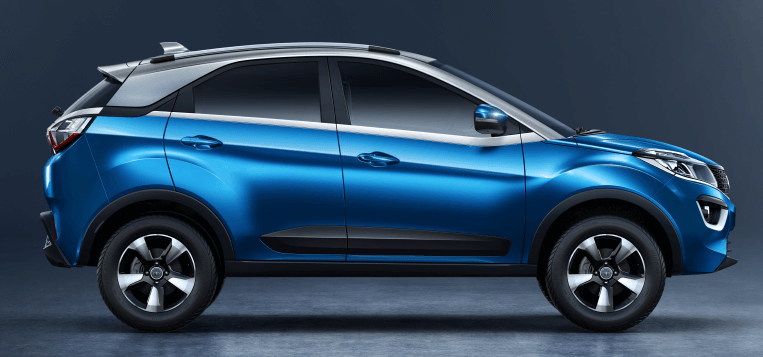
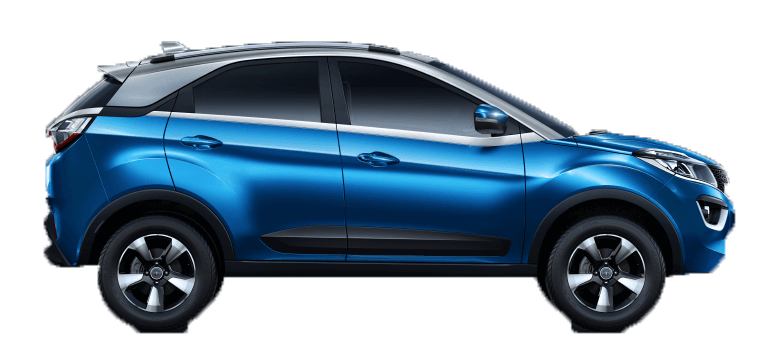
Modified images to transparent background

diff --git a/offroad.html b/offroad.html
@@ -36,12 +36,12 @@
       </div>
       <div id="dynamic">
         <link rel="stylesheet" href="style_suv.css">
-<div id="suv" style="cursor: pointer;"><img src="assets/img/cars/Offroad/cheverolet%20colorado%20zr.jpg" height="150px"/></div>
-<div id="sedan" onclick="alert('Fduck')" style="cursor: pointer;"><img src="assets/img/cars/Offroad/jeep%20wrangler.jpg" height="150px" width="260px" /></div>
-<div id="coupes" onclick="alert('Fucfk')" style="cursor: pointer;"><img src="assets/img/cars/Offroad/Mercedes-Benz%20G500.jpg" height="120px" /></div>
-<div id="offroad" onclick="alert('Fsuck')" style="cursor: pointer;"><img src="assets/img/cars/Offroad/Ram%20Power%20Wagon.jpg" height="150px" /></div>
-<div id="sports" onclick="alert('Fuck')" style="cursor: pointer;"><img src="assets/img/cars/Offroad/raptor.jpg" height="150px" /></div>
-<div id="bikes" onclick="alert('Fucck')" style="cursor: pointer;"><img src="assets/img/cars/Offroad/Toyota%204Runner%20TRD%20Pro.jpg" height="150px" /></div>
+<div id="suv" style="cursor: pointer;"><img src="assets/img/cars/Offroad/cheverolet%20colorado%20zr.png" height="150px"/></div>
+<div id="sedan" onclick="alert('Fduck')" style="cursor: pointer;"><img src="assets/img/cars/Offroad/jeep%20wrangler.png" height="150px" width="260px" /></div>
+<div id="coupes" onclick="alert('Fucfk')" style="cursor: pointer;"><img src="assets/img/cars/Offroad/Mercedes-Benz%20G500.png" height="120px" /></div>
+<div id="offroad" onclick="alert('Fsuck')" style="cursor: pointer;"><img src="assets/img/cars/Offroad/Ram%20Power%20Wagon.png" height="150px" /></div>
+<div id="sports" onclick="alert('Fuck')" style="cursor: pointer;"><img src="assets/img/cars/Offroad/raptor.png" height="150px" /></div>
+<div id="bikes" onclick="alert('Fucck')" style="cursor: pointer;"><img src="assets/img/cars/Offroad/Toyota%204Runner%20TRD%20Pro.png" height="150px" /></div>
     </div>
     </div>
 

diff --git a/bikes.html b/bikes.html
@@ -37,11 +37,11 @@
       <div id="dynamic">
         <link rel="stylesheet" href="style_suv.css">
 <div id="suv" style="cursor: pointer;"><img src="assets/img/cars/Bikes/avenger%20cruise.png" height="170px" /></div>
-<div id="sedan" onclick="alert('Fduck')" style="cursor: pointer;"><img src="assets/img/cars/Bikes/bikees.jpg" height="150px" width="260px" /></div>
+<div id="sedan" onclick="alert('Fduck')" style="cursor: pointer;"><img src="assets/img/cars/Bikes/bikees.png" height="150px" width="260px" /></div>
 <div id="coupes" onclick="alert('Fucfk')" style="cursor: pointer;"><img src="assets/img/cars/Bikes/calssic%20350.png" height="160px" /></div>
-<div id="offroad" onclick="alert('Fsuck')" style="cursor: pointer;"><img src="assets/img/cars/Bikes/Harley-Davidson-Street-750-Custom-By-Rajputana-Customs-Right-Side-Front-Three-Quarters.jpg" height="150px" /></div>
+<div id="offroad" onclick="alert('Fsuck')" style="cursor: pointer;"><img src="assets/img/cars/Bikes/Harley-Davidson-Street-750-Custom-By-Rajputana-Customs-Right-Side-Front-Three-Quarters.png" height="150px" /></div>
 <div id="sports" onclick="alert('Fuck')" style="cursor: pointer;"><img src="assets/img/cars/Bikes/ktm%20ninja.png" height="150px" /></div>
-<div id="bikes" onclick="alert('Fucck')" style="cursor: pointer;"><img src="assets/img/cars/Bikes/um-motorcycles-renegade-commando-black-shine.jpg" height="150px" /></div>
+<div id="bikes" onclick="alert('Fucck')" style="cursor: pointer;"><img src="assets/img/cars/Bikes/um-motorcycles-renegade-commando-black-shine.png" height="150px" /></div>
     </div>
     </div>
 

diff --git a/SUV.html b/SUV.html
@@ -36,11 +36,11 @@
       </div>
       <div id="dynamic">
         <link rel="stylesheet" href="style_suv.css">
-<div id="suv" style="cursor: pointer;"><img src="assets/img/cars/SUV/isuzu.jpg" height="150px" /></div>
+<div id="suv" style="cursor: pointer;"><img src="assets/img/cars/SUV/isuzu.png" height="150px" /></div>
 <div id="sedan" onclick="alert('Fduck')" style="cursor: pointer;"><img src="assets/img/cars/SUV/duster.png" height="150px" width="260px" /></div>
-<div id="coupes" onclick="alert('Fucfk')" style="cursor: pointer;"><img src="assets/img/cars/SUV/ecosport.jpg" height="120px" /></div>
-<div id="offroad" onclick="alert('Fsuck')" style="cursor: pointer;"><img src="assets/img/cars/SUV/endeavour.jpg" height="150px" /></div>
-<div id="sports" onclick="alert('Fuck')" style="cursor: pointer;"><img src="assets/img/cars/SUV/fortuner.jpg" height="150px" /></div>
+<div id="coupes" onclick="alert('Fucfk')" style="cursor: pointer;"><img src="assets/img/cars/SUV/ecosport.png" height="120px" /></div>
+<div id="offroad" onclick="alert('Fsuck')" style="cursor: pointer;"><img src="assets/img/cars/SUV/endeavour.png" height="150px" /></div>
+<div id="sports" onclick="alert('Fuck')" style="cursor: pointer;"><img src="assets/img/cars/SUV/fortuner.png" height="150px" /></div>
 <div id="bikes" onclick="alert('Fucck')" style="cursor: pointer;"><img src="assets/img/cars/SUV/nexon.png" height="150px" /></div>
     </div>
     </div>

diff --git a/sports.html b/sports.html
@@ -37,11 +37,11 @@
       <div id="dynamic">
         <link rel="stylesheet" href="style_suv.css">
 <div id="suv" style="cursor: pointer;"><img src="assets/img/cars/Sports/ford%20mustang.png" height="150px" /></div>
-<div id="sedan" onclick="alert('Fduck')" style="cursor: pointer;"><img src="assets/img/cars/Sports/lambo.jpg" height="150px" width="260px" /></div>
+<div id="sedan" onclick="alert('Fduck')" style="cursor: pointer;"><img src="assets/img/cars/Sports/lambo.png" height="150px" width="260px" /></div>
 <div id="coupes" onclick="alert('Fucfk')" style="cursor: pointer;"><img src="assets/img/cars/Sports/mazda%20mx5.png" height="120px" /></div>
-<div id="offroad" onclick="alert('Fsuck')" style="cursor: pointer;"><img src="assets/img/cars/Sports/renault%20megane.jpg" height="150px" /></div>
+<div id="offroad" onclick="alert('Fsuck')" style="cursor: pointer;"><img src="assets/img/cars/Sports/renault%20megane.png" height="150px" /></div>
 <div id="sports" onclick="alert('Fuck')" style="cursor: pointer;"><img src="assets/img/cars/Sports/subaro%20brz.png" height="150px" /></div>
-<div id="bikes" onclick="alert('Fucck')" style="cursor: pointer;"><img src="assets/img/cars/Sports/toyota%2086.jpg" height="150px" /></div>
+<div id="bikes" onclick="alert('Fucck')" style="cursor: pointer;"><img src="assets/img/cars/Sports/toyota%2086.png" height="150px" /></div>
     </div>
     </div>
 

diff --git a/sedan.html b/sedan.html
@@ -39,7 +39,7 @@
 <div id="sedan" onclick="alert('Fduck')" style="cursor: pointer;"><img src="assets/img/cars/Sedan/ciaz.png" height="150px" width="260px" /></div>
 <div id="coupes" onclick="alert('Fucfk')" style="cursor: pointer;"><img src="assets/img/cars/Sedan/city.png" height="120px" /></div>
 <div id="offroad" onclick="alert('Fsuck')" style="cursor: pointer;"><img src="assets/img/cars/Sedan/rapid.png" height="150px" /></div>
-<div id="sports" onclick="alert('Fuck')" style="cursor: pointer;"><img src="assets/img/cars/Sedan/optima.jpg" height="150px" /></div>
+<div id="sports" onclick="alert('Fuck')" style="cursor: pointer;"><img src="assets/img/cars/Sedan/optima.png" height="150px" /></div>
 <div id="bikes" onclick="alert('Fucck')" style="cursor: pointer;"><img src="assets/img/cars/Sedan/verna.png" height="150px" /></div>
     </div>
     </div>
